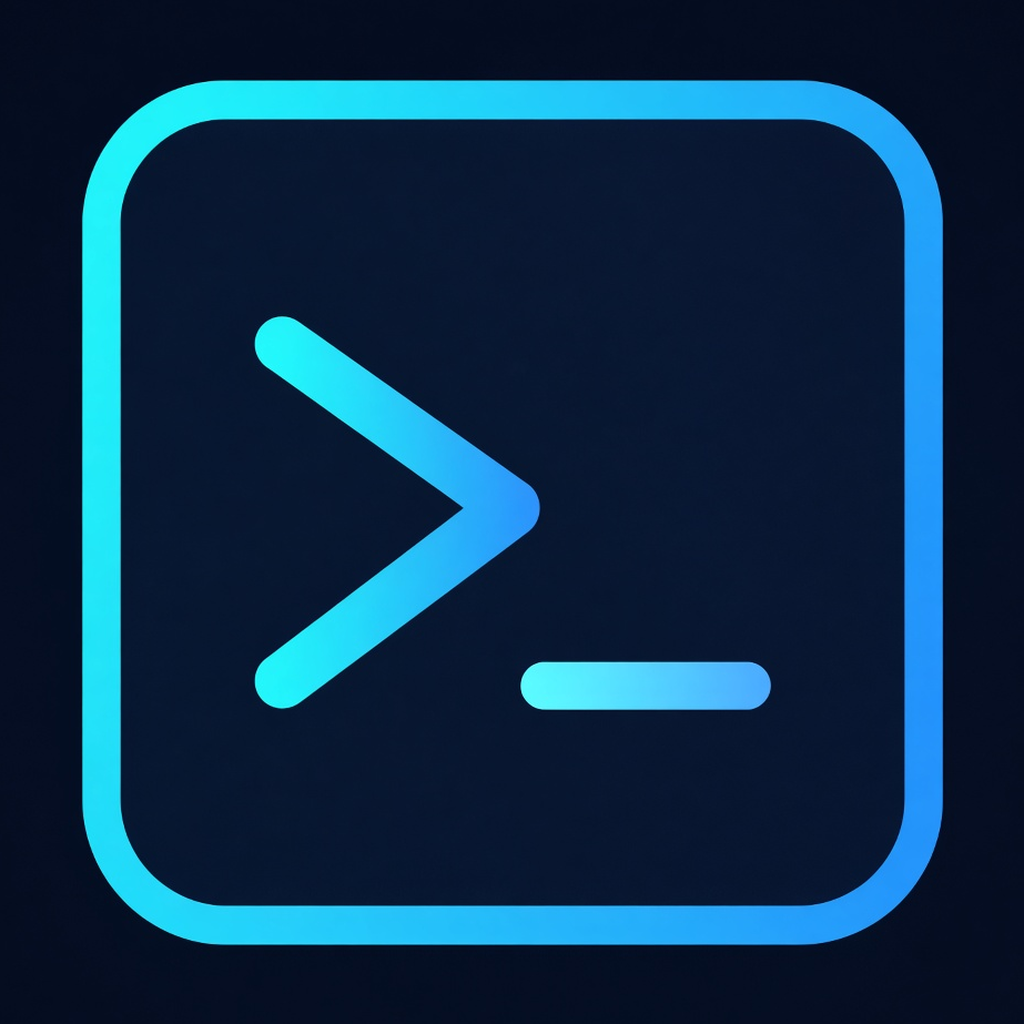
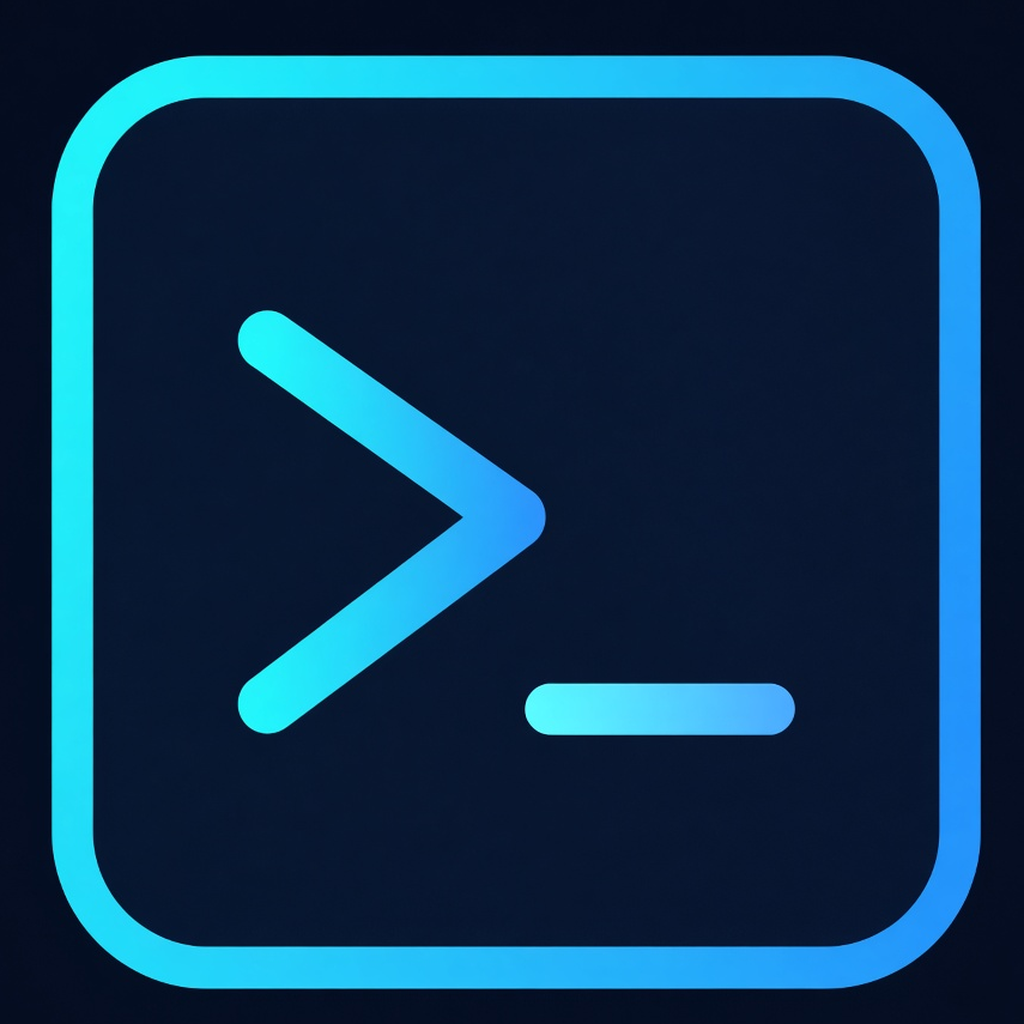
Ship FuturaTerm branding and credit MacTerm in the license
The public README was still MacTerm's copy, icon, and screenshot.
Use the FuturaTerm mark, rewrite the page, drop the old window shot,
and keep MacTerm's MIT notice beside Ghostty and zmx.

diff --git a/website/public/index.html b/website/public/index.html
@@ -17,11 +17,11 @@
   <meta property="og:title" content="FuturaTerm — a native macOS terminal that remembers" />
   <meta property="og:description" content="A macOS terminal with session persistence, smart multiplexing, and native UI, built on libghostty." />
   <meta property="og:url" content="https://futuraterm.com/" />
-  <meta property="og:image" content="https://futuraterm.com/assets/screenshot.png" />
+  <meta property="og:image" content="https://futuraterm.com/assets/icon.png" />
   <meta name="twitter:card" content="summary_large_image" />
   <meta name="twitter:title" content="FuturaTerm — a native macOS terminal that remembers" />
   <meta name="twitter:description" content="A macOS terminal with session persistence, smart multiplexing, and native UI, built on libghostty." />
-  <meta name="twitter:image" content="https://futuraterm.com/assets/screenshot.png" />
+  <meta name="twitter:image" content="https://futuraterm.com/assets/icon.png" />
 
   <link rel="preconnect" href="https://fonts.googleapis.com" />
   <link rel="preconnect" href="https://fonts.gstatic.com" crossorigin />
@@ -72,10 +72,10 @@
   </nav>
 
   <main id="main">
-    <!-- hero: screenshot + text on one screen, centered -->
+    <!-- hero: mark + text on one screen, centered -->
     <section class="box-border flex flex-col items-center justify-center" style="min-height:calc(100vh - 70px);gap:clamp(24px,4.5vh,52px);padding:clamp(24px,4vh,56px) var(--site-gutter)">
-      <figure class="m-0 w-full flex justify-center" style="max-width:1000px">
-        <img src="/assets/screenshot.png" alt="FuturaTerm running on macOS — vertical project sidebar, editor, and a Claude Code split" class="w-full block rounded-[12px]" style="max-height:54vh;object-fit:contain;box-shadow:0 40px 90px -50px rgba(0,0,0,.4)" />
+      <figure class="m-0 w-full flex justify-center">
+        <img src="/assets/icon.png" width="160" height="160" alt="FuturaTerm" class="block" style="width:160px;height:160px" />
       </figure>
       <div class="text-center">
         <h1 class="font-sans font-medium leading-none tracking-[-0.03em] m-0" style="font-size:clamp(28px,3.6vw,42px)">FuturaTerm</h1>

diff --git a/FuturaTermTests/App/ProductIdentityTests.swift b/FuturaTermTests/App/ProductIdentityTests.swift
@@ -48,23 +48,27 @@ struct ProductIdentityTests {
     }
 
     @Test
-    func license_is_mit_and_has_no_thdxg() throws {
+    func license_is_mit_and_credits_upstream() throws {
         let url = try #require(Self.repoFile("LICENSE"), "LICENSE not found walking up from #filePath")
         let license = try String(contentsOf: url, encoding: .utf8)
         #expect(license.contains("MIT License"))
         #expect(license.contains("Copyright (c) 2026 FuturaTerm"))
+        #expect(license.contains("Copyright (c) 2026 Macterm"))
         #expect(license.contains("Copyright (c) 2024 Mitchell Hashimoto, Ghostty contributors"))
         #expect(license.contains("Copyright (c) 2025 Eric Bower"))
-        #expect(!license.contains("Macterm"))
         #expect(!license.contains("thdxg"))
     }
 
     @Test
-    func readme_has_no_thdxg_or_origin_links() throws {
+    func readme_credits_macterm_without_origin_links() throws {
         let url = try #require(Self.repoFile("README.md"), "README.md not found walking up from #filePath")
         let readme = try String(contentsOf: url, encoding: .utf8)
+        #expect(readme.contains("FuturaTerm"))
+        #expect(readme.contains("https://github.com/davidsolheim/futuraterm.git"))
+        #expect(readme.contains("Portions derived from MacTerm, MIT, Copyright (c) 2026 Macterm"))
         #expect(!readme.contains("thdxg"))
         #expect(!readme.contains("ORIGIN.md"))
+        #expect(!readme.contains("screenshot.png"))
     }
 
     /// Walk parent directories of this source file until `LICENSE` marks the

diff --git a/website/src/docs-template.html b/website/src/docs-template.html
@@ -16,11 +16,11 @@
   <meta property="og:title" content="{{TITLE}}" />
   <meta property="og:description" content="{{DESCRIPTION}}" />
   <meta property="og:url" content="{{CANONICAL}}" />
-  <meta property="og:image" content="{{SITE_URL}}/assets/screenshot.png" />
+  <meta property="og:image" content="{{SITE_URL}}/assets/icon.png" />
   <meta name="twitter:card" content="summary_large_image" />
   <meta name="twitter:title" content="{{TITLE}}" />
   <meta name="twitter:description" content="{{DESCRIPTION}}" />
-  <meta name="twitter:image" content="{{SITE_URL}}/assets/screenshot.png" />
+  <meta name="twitter:image" content="{{SITE_URL}}/assets/icon.png" />
 
   <link rel="preconnect" href="https://fonts.googleapis.com" />
   <link rel="preconnect" href="https://fonts.gstatic.com" crossorigin />

diff --git a/README.md b/README.md
@@ -1,44 +1,39 @@
 <h1 align="center">
-  <img src="./assets/icon.png" width="128" />
+  <img src="./assets/icon.png" width="128" alt="FuturaTerm" />
   <br />
   FuturaTerm
 </h1>
 
 <p align="center">
-  A macOS terminal with session persistence, smart multiplexing, and a native project sidebar. Built on libghostty.
-
+  A native macOS terminal that keeps your projects, panes, and remote shells alive.
 </p>
 
 <p align="center">
   <img src="https://img.shields.io/badge/macOS-14%2B-black?logo=apple" alt="macOS 14+" />
 </p>
 
-![screenshot](./assets/screenshot.png)
+<p align="center">
+  <a href="https://futuraterm.com"><b>Website</b></a> ·
+  <a href="https://futuraterm.com/docs"><b>Docs</b></a> ·
+  <a href="https://github.com/davidsolheim/futuraterm"><b>Source</b></a>
+</p>
 
-## Features
+FuturaTerm is a single-window SwiftUI app on libghostty. The workspace is a vertical project sidebar: local folders, SSH hosts, tabs, splits, and pinned sessions that start with the app. Quit, sleep, or lose the network and local shells detach instead of dying; remote shells stay on the host. Relaunch reattaches them, scrollback included.
 
-- **Persistent multiplexing** \
-  Projects, tabs, and split panes are saved and restored on relaunch. Quitting detaches your shells; relaunching brings them back with scrollback and running processes intact.
-- **Remote projects** \
-  Open a directory on another machine over SSH. Your shells keep running there, surviving quits, dropped connections, and even a local reboot.
-- **Vertical project sidebar** \
-  Organize projects and their tabs in a native macOS sidebar, stacked vertically where there's room to read them.
-- **Pinned tabs** \
-  Pin a tab above your projects to keep it running: it starts on every launch, and restores itself with its command if the session dies.
-- **Command palette** \
-  Press <kbd>⌘P</kbd> to split panes, switch projects, or open a directory. Every action is a keystroke away, and each row shows its keybind.
-- **Declarative layouts** \
-  Describe a project's tabs, splits, and per-pane commands in YAML; FuturaTerm builds the workspace from it on open.
-- **Control CLI** \
-  A bundled `futuraterm` command drives the running app, so scripts and AI agents can spawn panes, run commands, and script layouts.
-- **Quick terminal** \
-  A global drop-down terminal on a hotkey (<kbd>⌃`</kbd>), for scratch work from anywhere.
-- **Ghostty compatibility** \
-  Reads your existing Ghostty config. Theme, font, keybinds: all of it just works.
+It reads your existing Ghostty config — theme, font, keybinds — and ships a `futuraterm` CLI so scripts and agents can split panes, type into them, and apply layouts.
+
+## Highlights
+
+- **Sessions that outlive the window** — zmx holds each pane. Closing FuturaTerm detaches; opening it reattaches.
+- **Projects, including remote ones** — a sidebar row is a directory, local or `[user@]host:path`. Remote panes persist on that machine.
+- **Pinned tabs** — stay running above your projects, restore their command if the session dies, and live in an editable `pinned.yaml`.
+- **YAML layouts** — declare tabs, splits, cwd, and `run:` / `shell:` per pane under `~/.config/futuraterm/projects/`.
+- **Palette and CLI** — <kbd>⌘P</kbd> for actions and directories; `futuraterm pane` / `tab` / `layout` for everything you can click.
+- **Quick terminal** — a global drop-down on <kbd>⌃`</kbd> for scratch work outside the project sidebar.
 
 ## Build
 
-Requires macOS 26+ and full Xcode 26 to build. The app itself runs on macOS 14+.
+Requires macOS 26+ and full Xcode 26 to compile. The app runs on macOS 14+.
 
 ```bash
 git clone https://github.com/davidsolheim/futuraterm.git
@@ -56,4 +51,4 @@ The control CLI inside a pane is `futuraterm`. Project YAML lives in `~/.config/
 
 ## License
 
-MIT. Copyright (c) 2026 FuturaTerm. Bundled Ghostty (libghostty) is MIT, Copyright (c) 2024 Mitchell Hashimoto, Ghostty contributors. Bundled zmx is MIT, Copyright (c) 2025 Eric Bower. See `LICENSE`.
+MIT. Copyright (c) 2026 FuturaTerm. Portions derived from MacTerm, MIT, Copyright (c) 2026 Macterm. Bundled Ghostty (libghostty) is MIT, Copyright (c) 2024 Mitchell Hashimoto, Ghostty contributors. Bundled zmx is MIT, Copyright (c) 2025 Eric Bower. See `LICENSE`.

diff --git a/website/README.md b/website/README.md
@@ -11,7 +11,7 @@ public/            Served as static files
   docs/            One HTML file per docs page ── generated, do not edit ──
   tailwind.css     Compiled styles ── generated, do not edit ──
   site.js          Shared behavior (sticky nav, copy buttons, GitHub stats)
-  assets/          Symlink to the repo-root assets/ (icon, screenshot, schema)
+  assets/          Symlink to the repo-root assets/ (icon, schema)
 src/
   tailwind.css     Tailwind v4 input + design tokens (@theme) + components
   docs-template.html  Shell each rendered docs page is injected into
